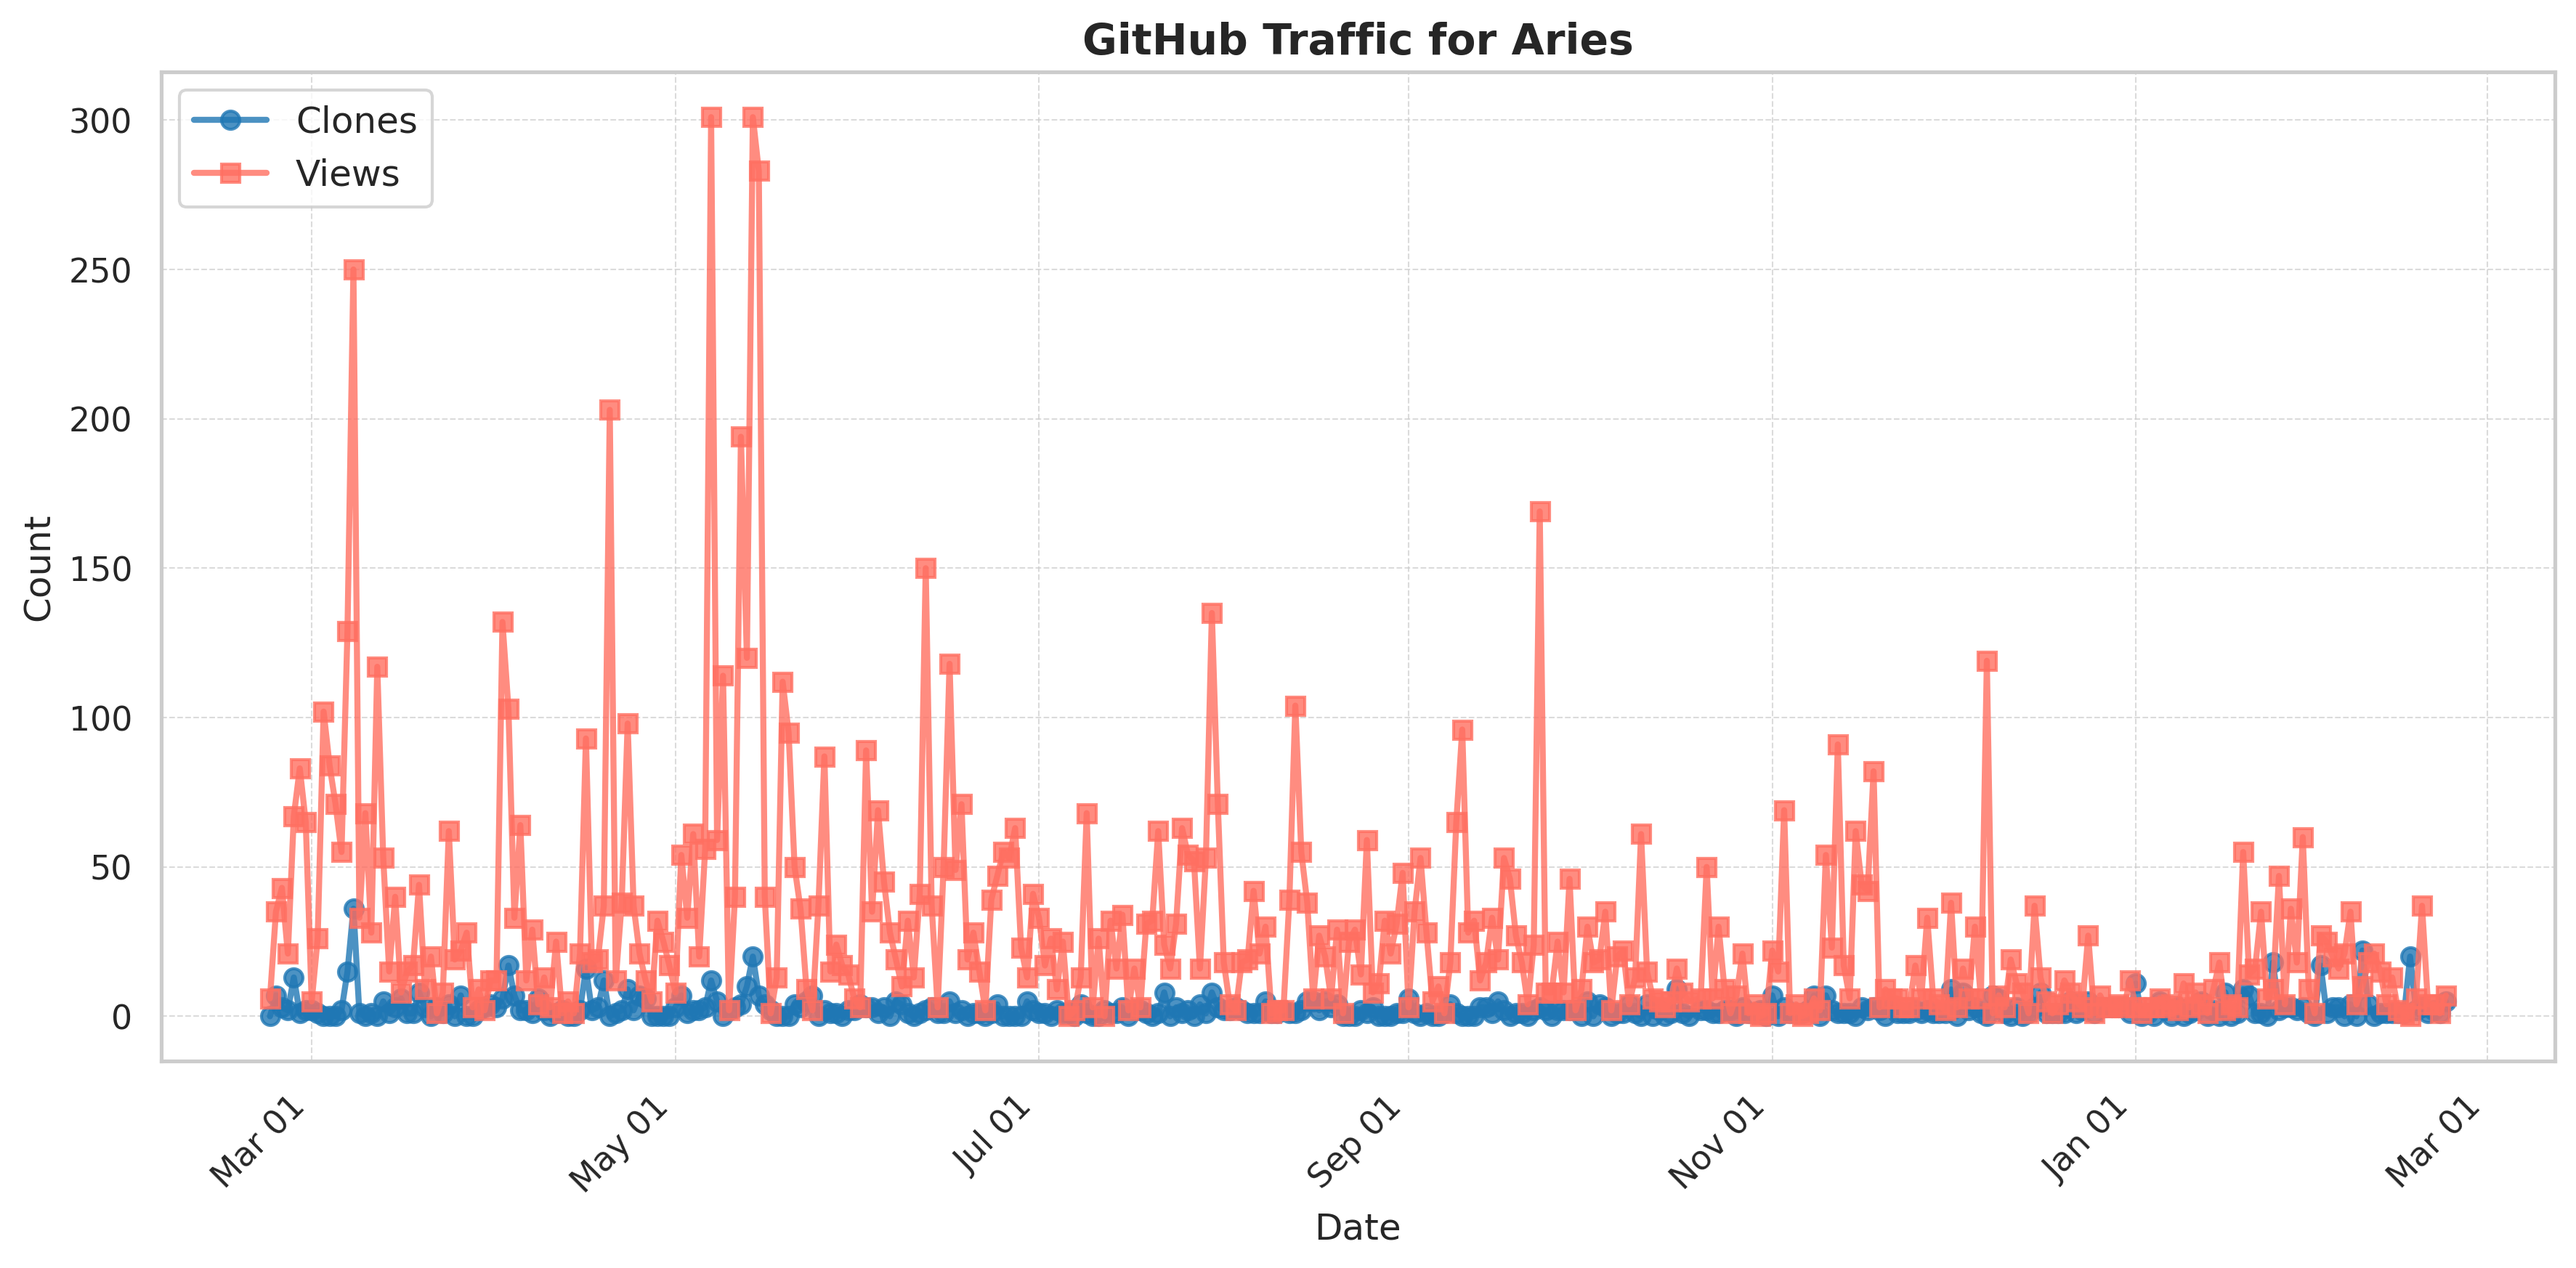
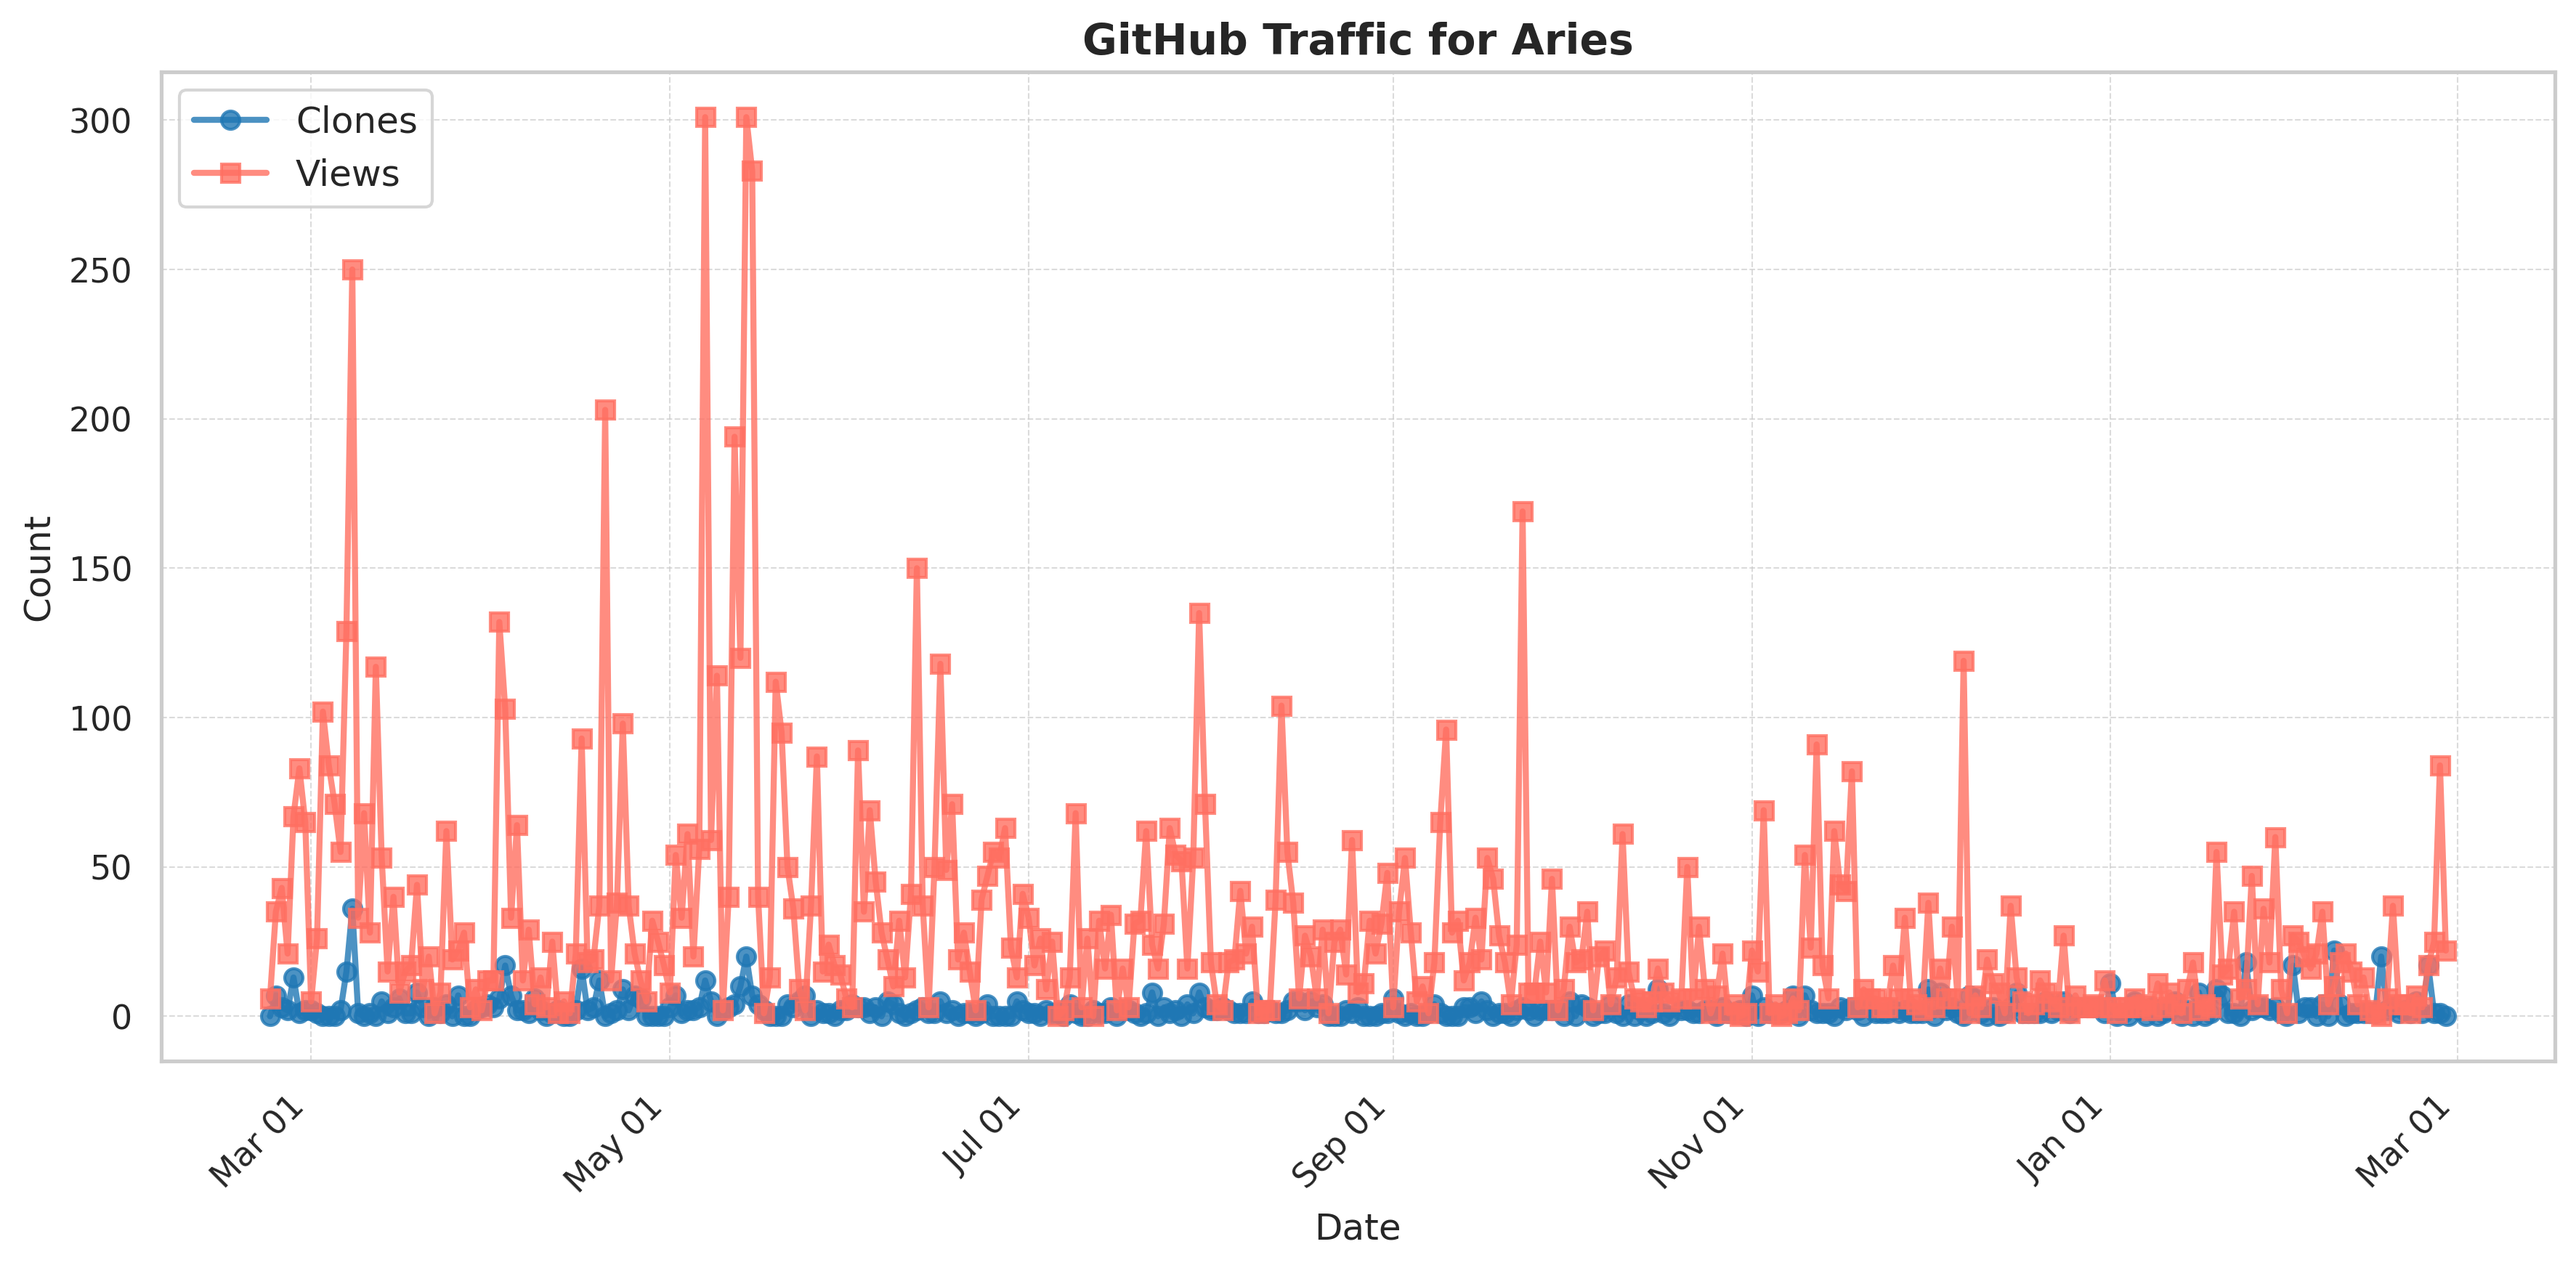
Auto-generated traffic_plot.png and plot_data.csv

diff --git a/README.md b/README.md
@@ -99,6 +99,6 @@ series = {FPGA '25}
 
 ## 🚀 Thank You for Using ARIES! ! !
 ### Your support and growing engagement inspire us to continually improve and enhance ARIES project.
-+ Total Views since 02/22/2025: <!--VIEWS-->11061<!--/VIEWS-->
-+ Total Downloads since 02/22/2025: <!--CLONES-->954<!--/CLONES-->
++ Total Views since 02/22/2025: <!--VIEWS-->11212<!--/VIEWS-->
++ Total Downloads since 02/22/2025: <!--CLONES-->974<!--/CLONES-->
 <img src="./assets/Aries_traffic_plot.png" width="600" />
